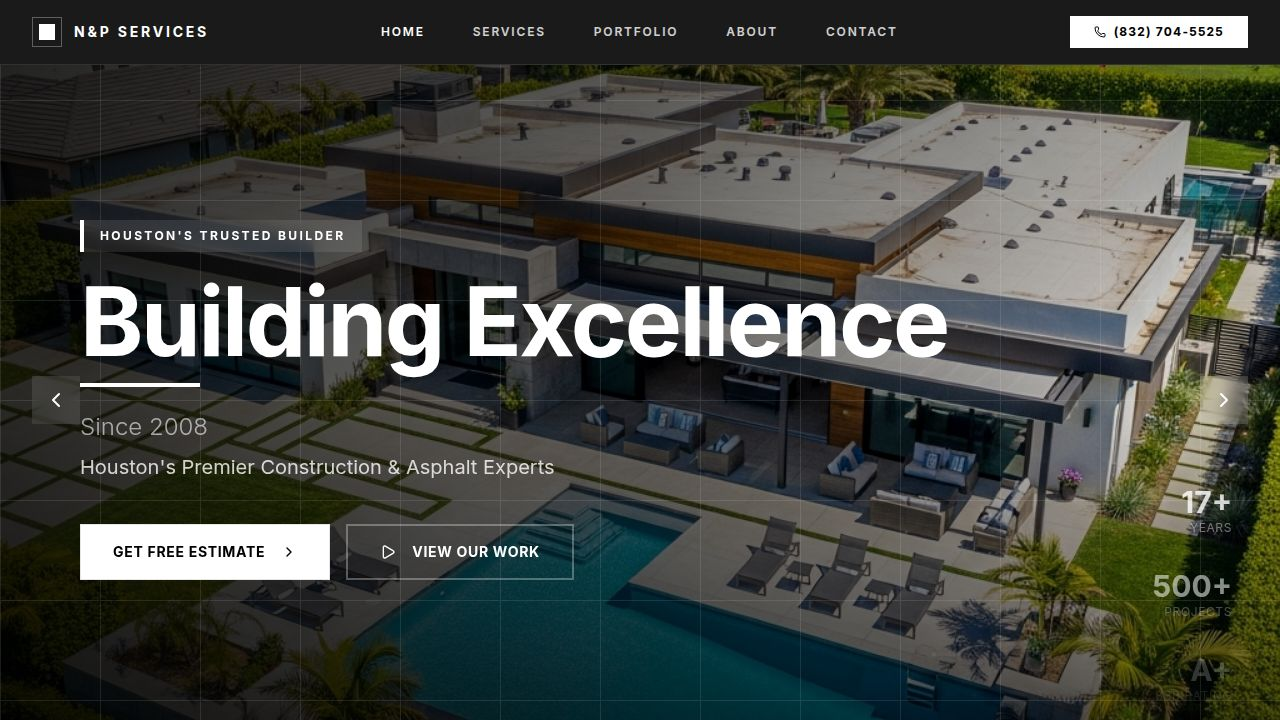
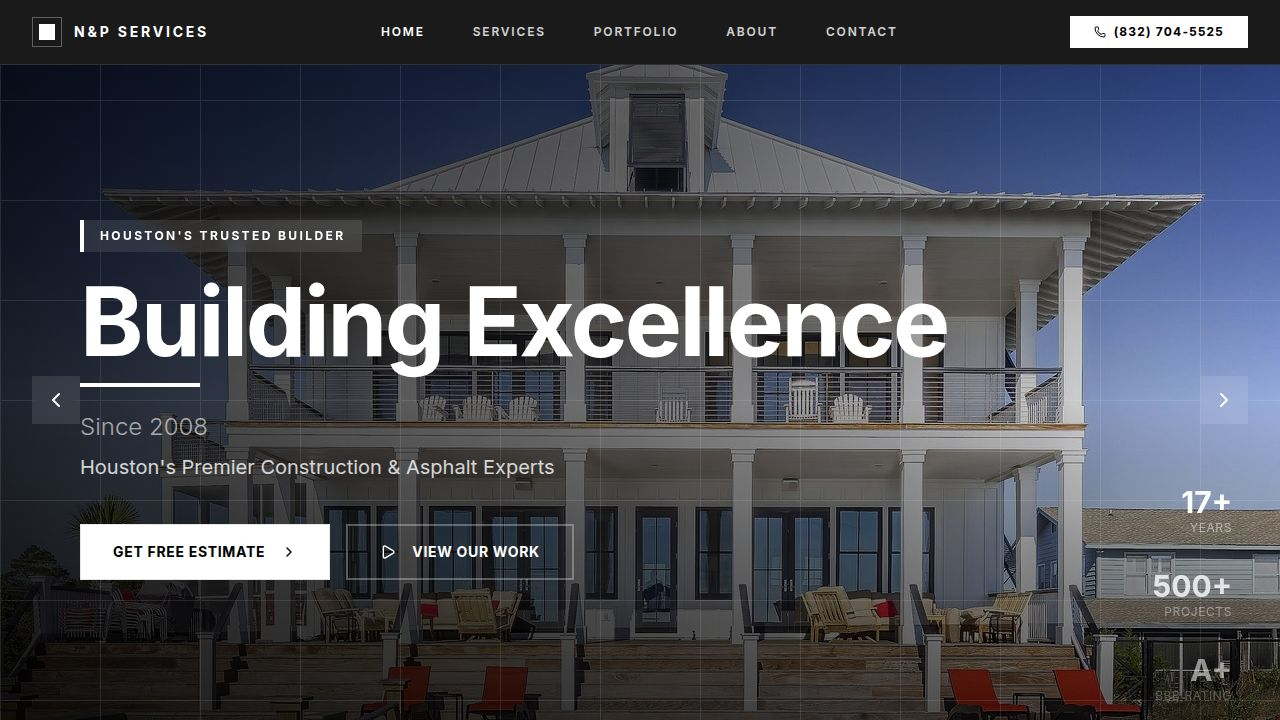
Update website background images to showcase Texas homes
Replace generated background images in the Hero component with new stock photos of Texas homes.

Replit-Commit-Author: Agent
Replit-Commit-Session-Id: 130ee069-a9b4-42ae-a997-e7c74fead2d3
Replit-Commit-Checkpoint-Type: full_checkpoint
Replit-Commit-Event-Id: b81b4d7d-cc7f-4664-b40e-7c0af190d73e
Replit-Commit-Screenshot-Url: https://storage.googleapis.com/screenshot-production-us-central1/bc4689b3-2fd8-492b-83cc-1782751a530f/130ee069-a9b4-42ae-a997-e7c74fead2d3/VRcWn86
Replit-Helium-Checkpoint-Created: true

diff --git a/client/src/components/home/Hero.tsx b/client/src/components/home/Hero.tsx
@@ -1,8 +1,8 @@
 import { Button } from "@/components/ui/button";
 import { Link } from "wouter";
-import heroBg from "@assets/generated_images/aerial_residential_property.png";
-import comImage from "@assets/generated_images/commercial_building_site.png";
-import specImage from "@assets/generated_images/construction_hero_background.png";
+import texasHome1 from "@assets/stock_images/beautiful_modern_tex_0afd3e65.jpg";
+import texasHome2 from "@assets/stock_images/beautiful_modern_tex_1501e06d.jpg";
+import texasHome3 from "@assets/stock_images/beautiful_modern_tex_0e702b65.jpg";
 import { motion, AnimatePresence } from "framer-motion";
 import { useEffect, useState } from "react";
 import { ChevronRight, Play, ChevronLeft } from "lucide-react";
@@ -10,19 +10,19 @@ import { useSimpleAnimations } from "@/hooks/useMobile";
 
 const slides = [
   {
-    image: heroBg,
+    image: texasHome1,
     title: "Building Excellence",
     subtitle: "Since 2008",
     description: "Houston's Premier Construction & Asphalt Experts",
   },
   {
-    image: comImage,
+    image: texasHome2,
     title: "Commercial Projects",
     subtitle: "Built to Last",
     description: "From Ground Up to Finishing Touches",
   },
   {
-    image: specImage,
+    image: texasHome3,
     title: "Quality Craftsmanship",
     subtitle: "A+ BBB Rated",
     description: "Trusted by Hundreds Across Greater Houston",
